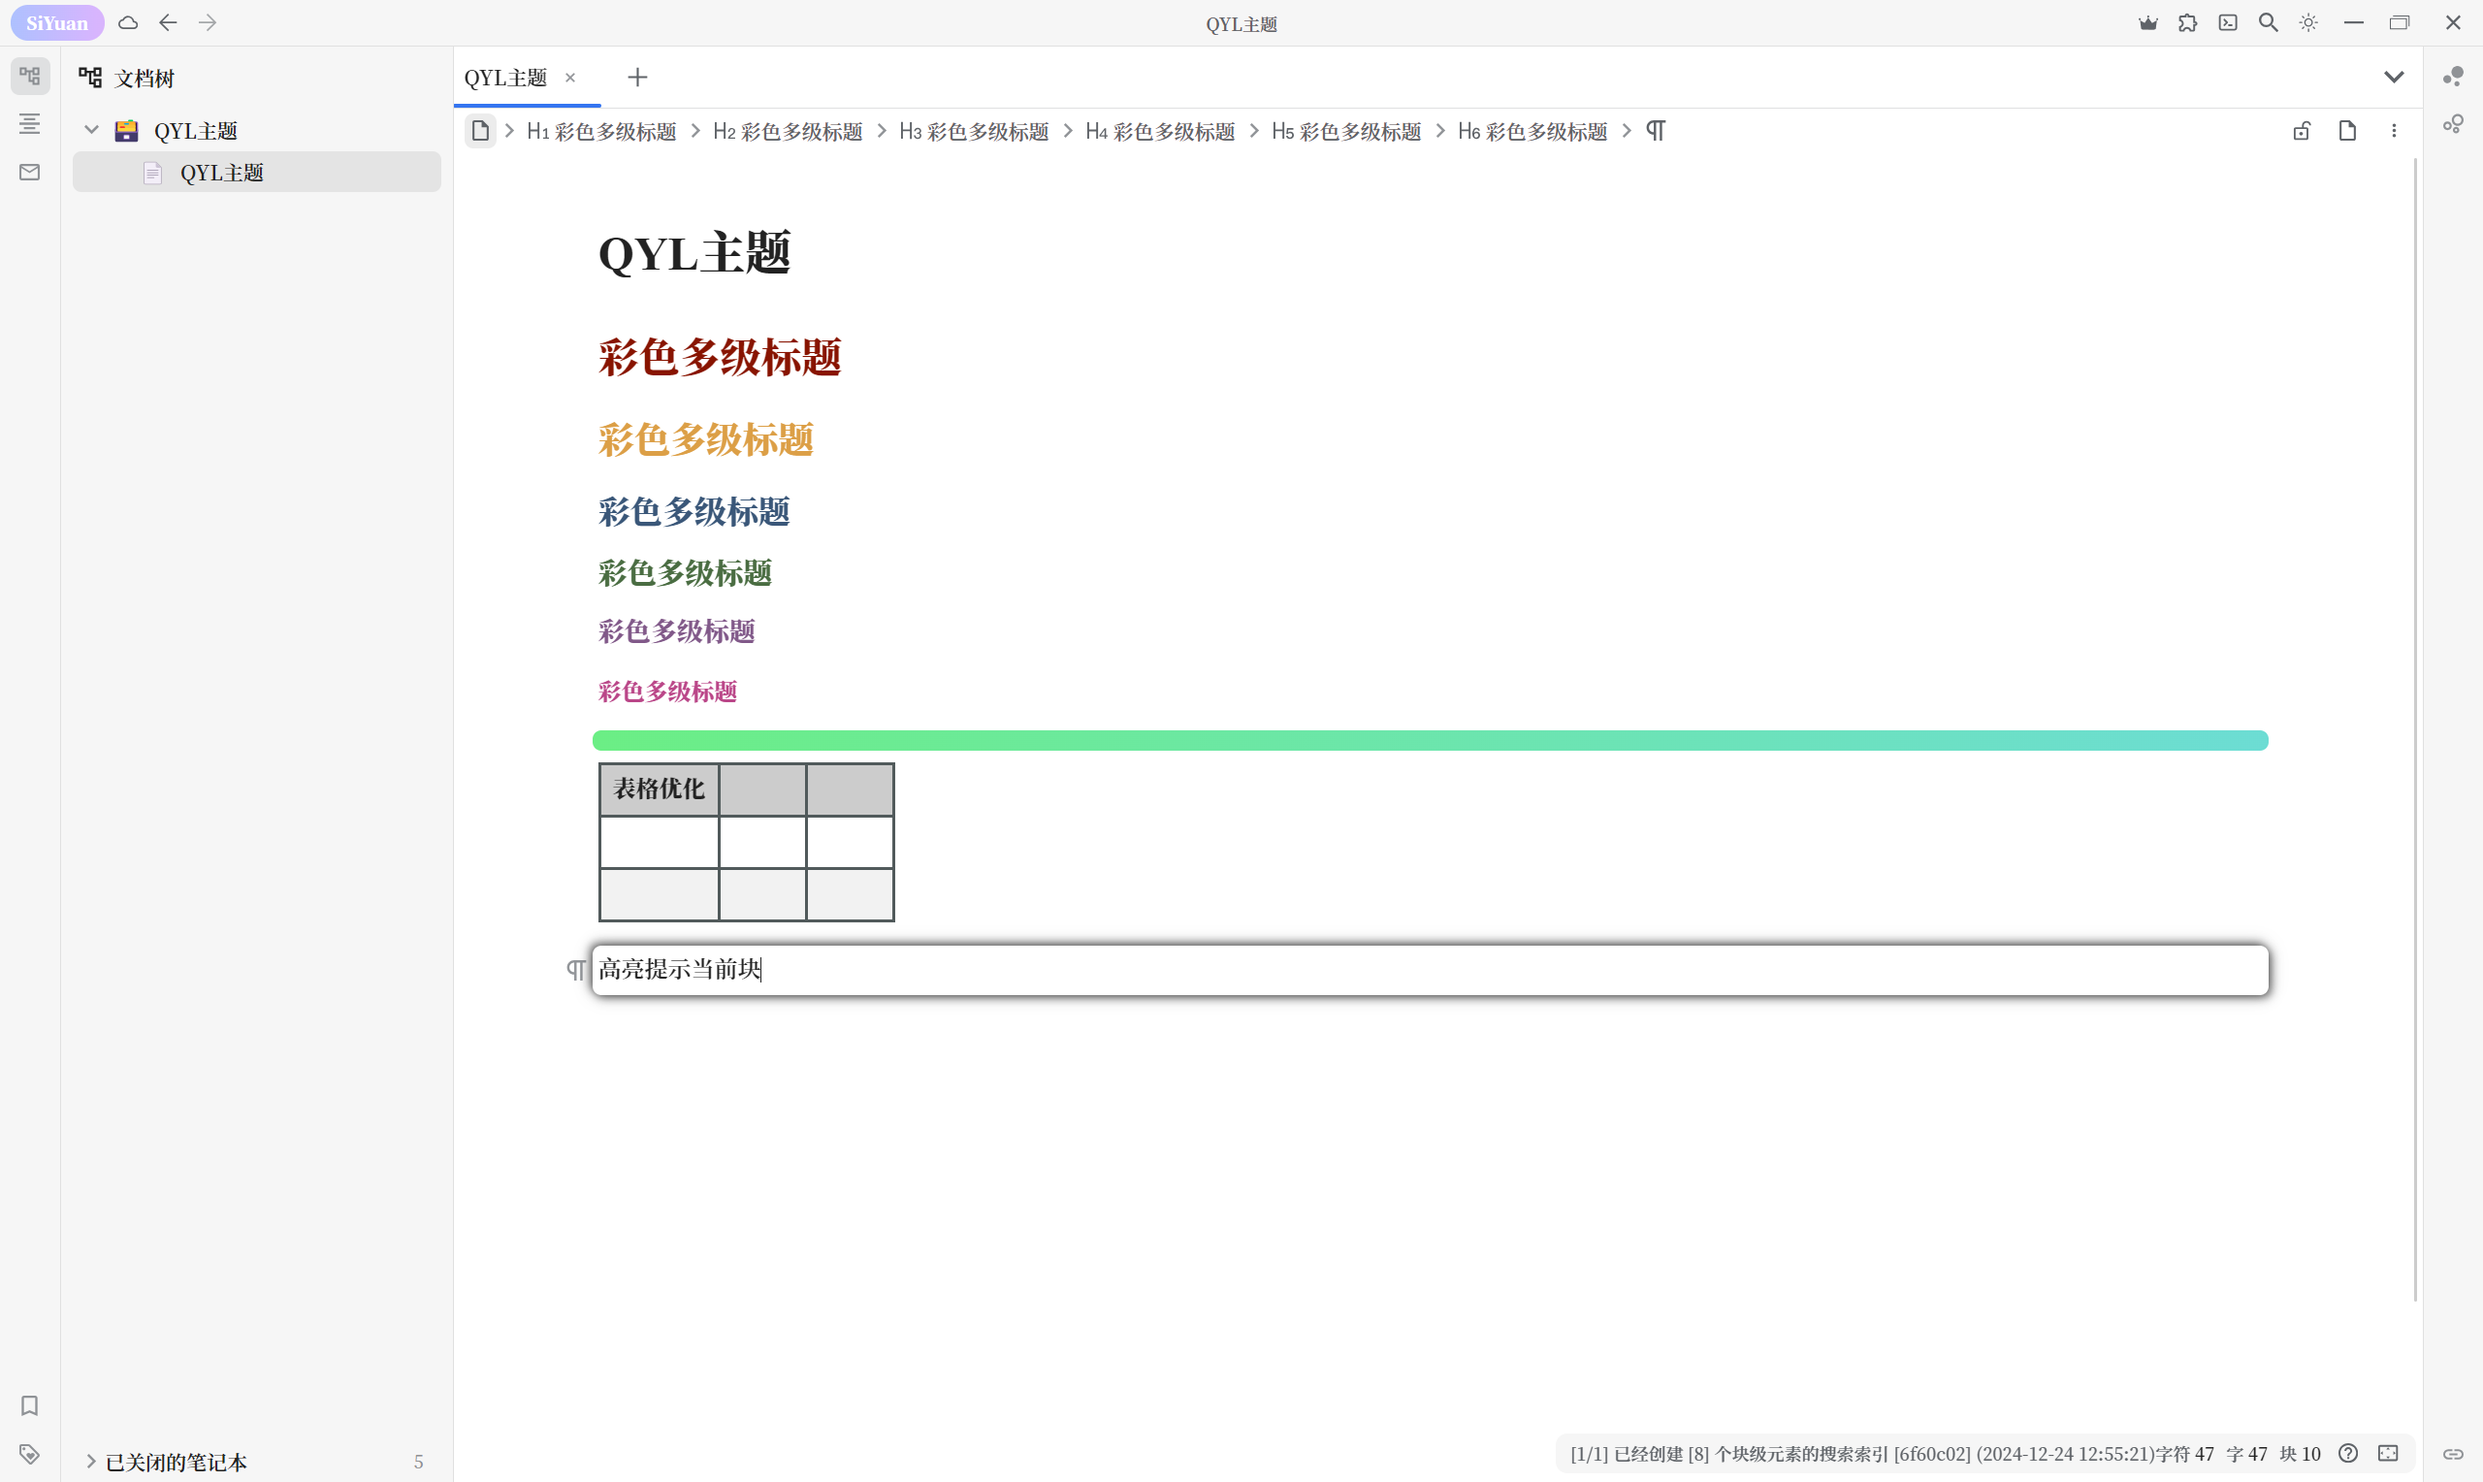
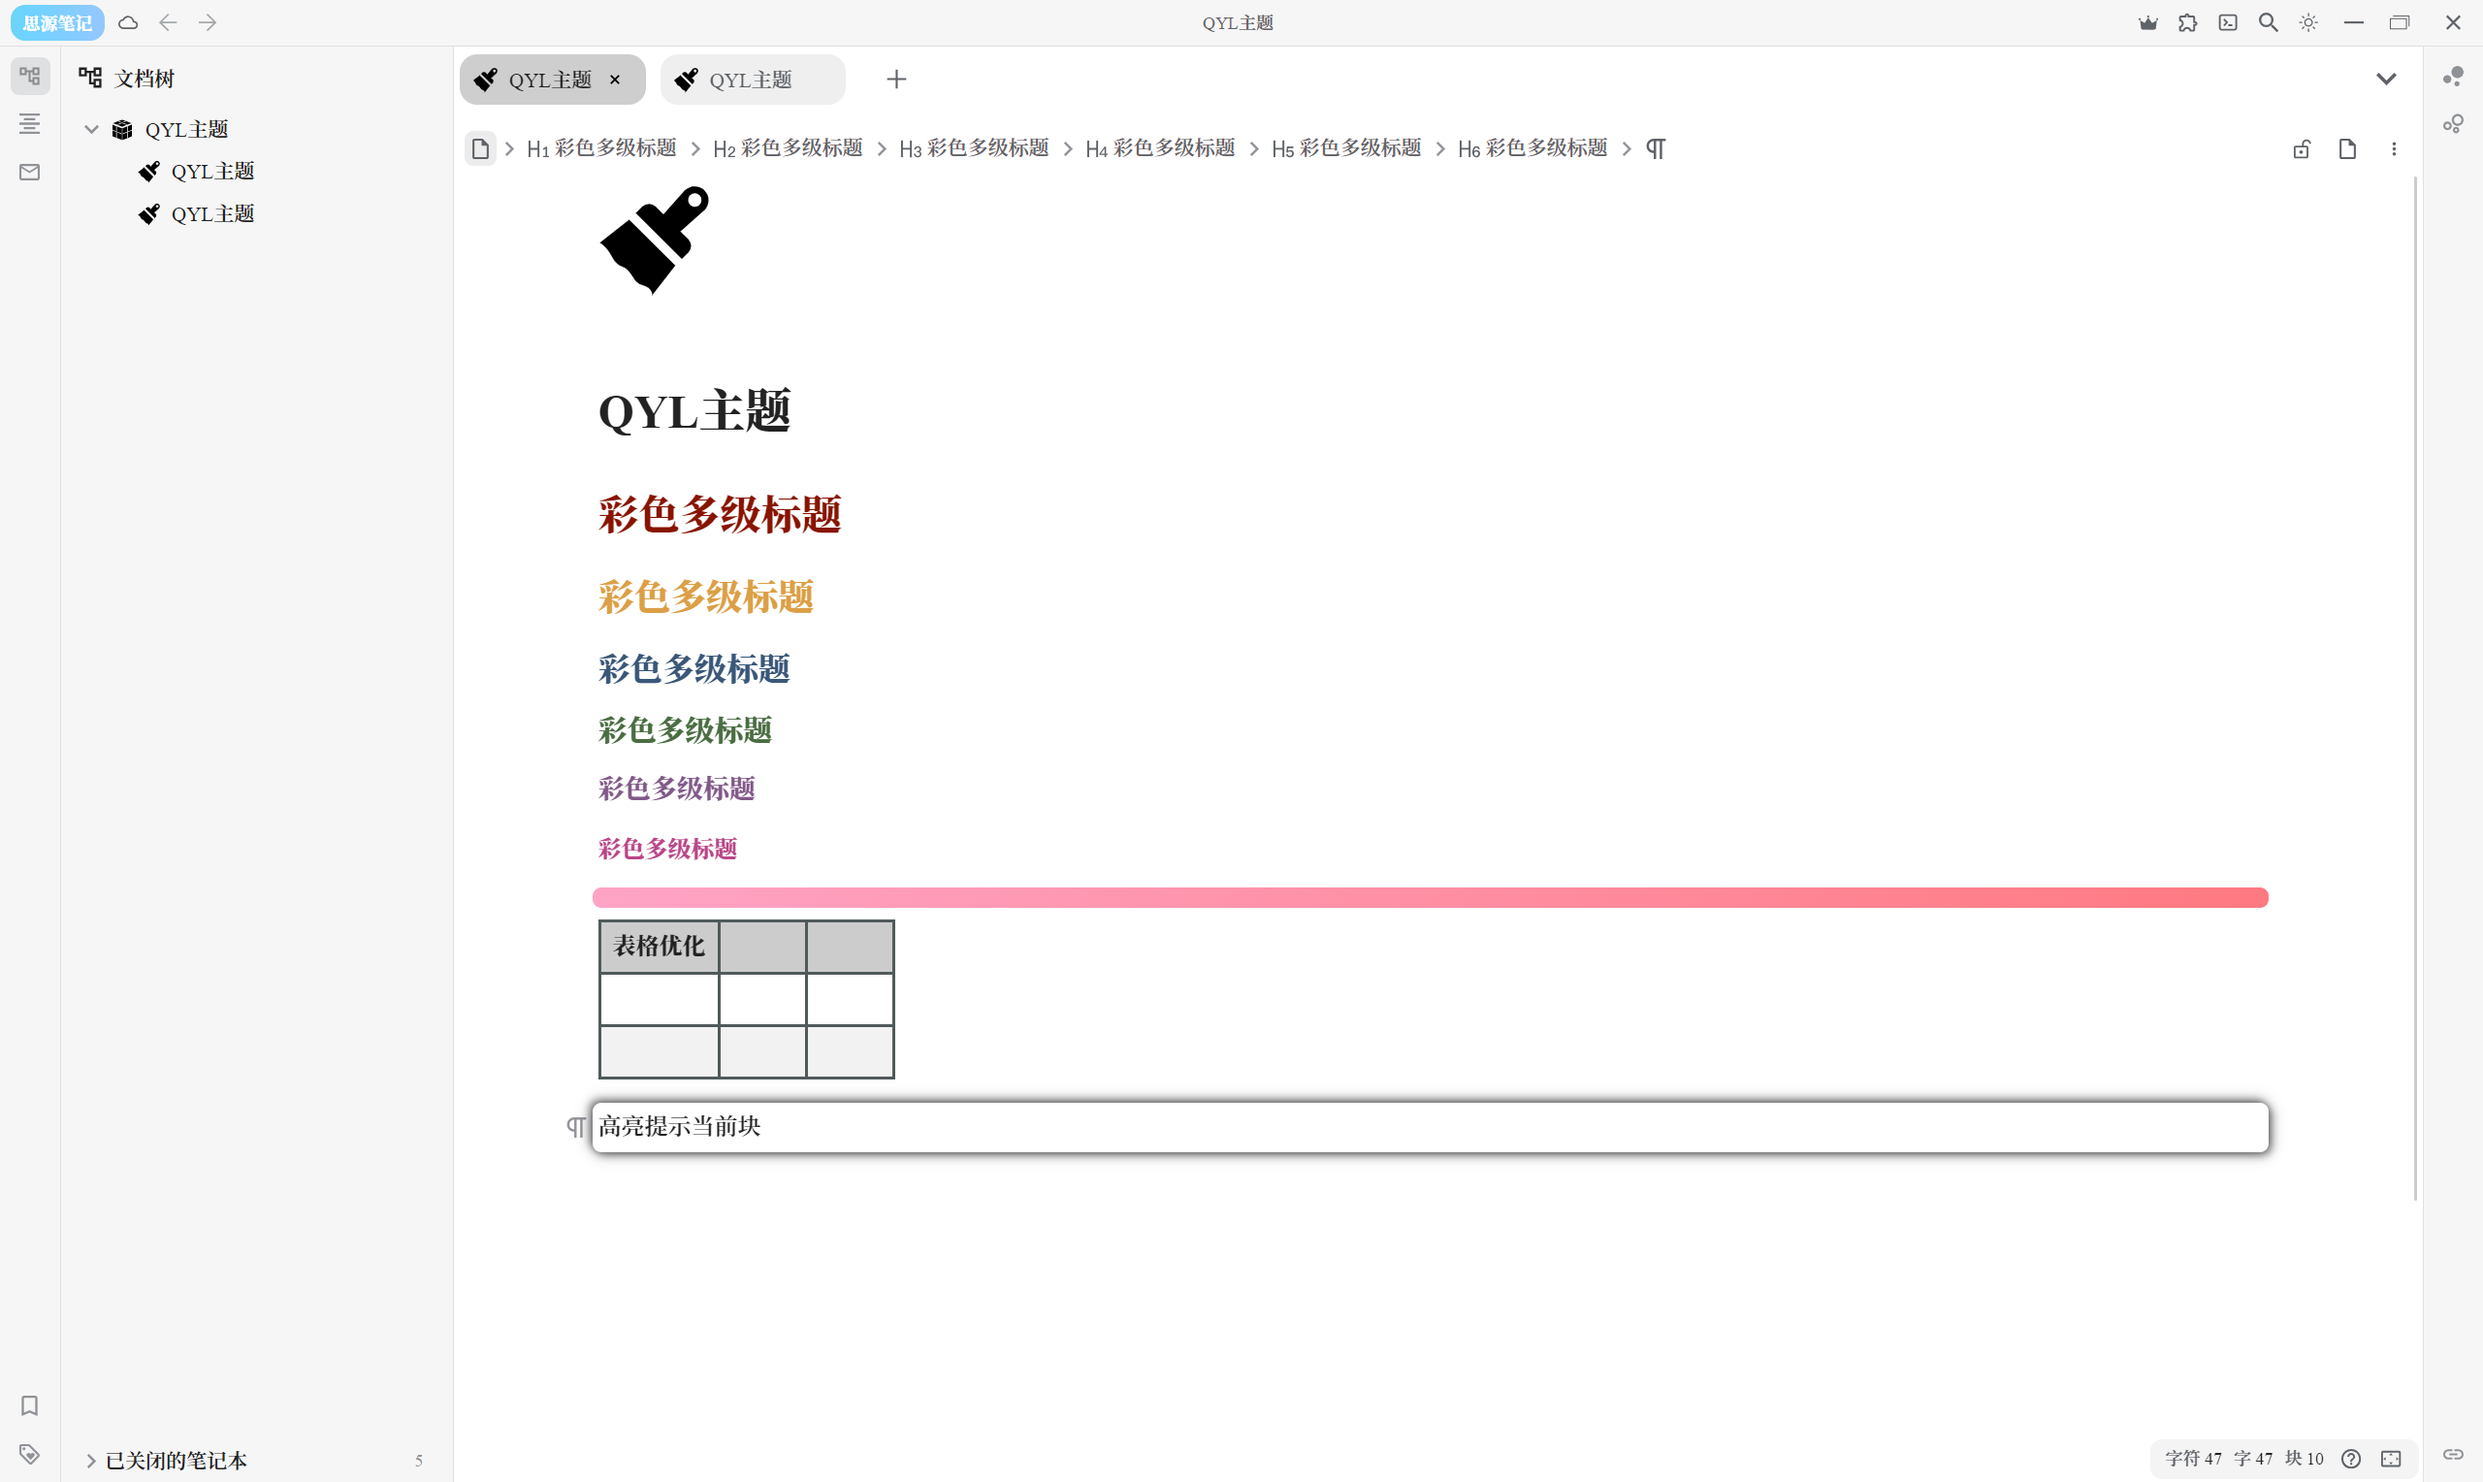
Add files via upload

diff --git a/theme.css b/theme.css
@@ -128,12 +128,12 @@
 .protyle-gutters { transition: all 0.2s ease-out; }
 
 /* 彩色多级标题 */
-.protyle-wysiwyg .h1 { color: var(--h1-); }
-.protyle-wysiwyg .h2 { color: var(--h2-); }
-.protyle-wysiwyg .h3 { color: var(--h3-); }
-.protyle-wysiwyg .h4 { color: var(--h4-); }
-.protyle-wysiwyg .h5 { color: var(--h5-); }
-.protyle-wysiwyg .h6 { color: var(--h6-); }
+.b3-typography .h1,.b3-typography h1,.protyle-wysiwyg .h1,.protyle-wysiwyg h1 { color: var(--h1-); }
+.b3-typography .h2,.b3-typography h2,.protyle-wysiwyg .h2,.protyle-wysiwyg h2 { color: var(--h2-); }
+.b3-typography .h3,.b3-typography h3,.protyle-wysiwyg .h3,.protyle-wysiwyg h3 { color: var(--h3-); }
+.b3-typography .h4,.b3-typography h4,.protyle-wysiwyg .h4,.protyle-wysiwyg h4 { color: var(--h4-); }
+.b3-typography .h5,.b3-typography h5,.protyle-wysiwyg .h5,.protyle-wysiwyg h5 { color: var(--h5-); }
+.b3-typography .h6,.b3-typography h6,.protyle-wysiwyg .h6,.protyle-wysiwyg h6 { color: var(--h6-); }
 
 /* 表格优化 */
 th, tr:nth-child(odd) td, tr:nth-child(even) td { border: 2px solid #515A5B !important; }
@@ -162,18 +162,33 @@ tr:nth-child(even) td { background-color: rgba(0, 0, 0, 0.05) !important; }
 /* 状态栏浮动到右侧 */
 #status {
     position: fixed;
-    right: 42px !important;
-    bottom: -8px;
+    right: 45px !important;
+    bottom: 3px;
     border-radius: 8px;
     height: 27px !important;
     padding: 0px 5px 0px !important;
-    margin: 0px 5px 15px;
     overflow: hidden;
     z-index: 3;
     border: none;
-    background-color: var(--b3-theme-surface);
+    background-color: rgba(233, 233, 233, 0.5);
     display: flex;
     align-items: center;
+    transition: 0.5s;
+}
+#status:hover {
+    position: fixed;
+    right: 45px !important;
+    bottom: 3px;
+    border-radius: 8px;
+    height: 27px !important;
+    padding: 0px 5px 0px !important;
+    overflow: hidden;
+    z-index: 3;
+    border: none;
+    background-color: rgba(211, 211, 211, 0.5);
+    display: flex;
+    align-items: center;
+    transition: 0.5s;
 }
 #barDock {
     position: relative;
@@ -181,4 +196,60 @@ tr:nth-child(even) td { background-color: rgba(0, 0, 0, 0.05) !important; }
 }
 #statusHelp {
     position: relative;
+}
+
+/* 行级代码 */
+.b3-typography code:not(.hljs),.b3-typography span[data-type~=code],.protyle-wysiwyg code:not(.hljs),.protyle-wysiwyg span[data-type~=code] {
+    color: red;
+}
+
+/* 页签栏 */
+.layout-tab-bar .item {
+    min-height: 25px;
+    height: 35px;
+    margin: 5px;
+}
+.layout-tab-bar .item:not(.layout-tab-bar .item--readonly):not(.item.item--focus) {
+    background-color: #efefef;
+    border-radius: 12px;
+    transition: 0.5s;
+}
+.layout-tab-bar .item:not(.layout-tab-bar .item--readonly):not(.item.item--focus):hover {
+    background-color: #cecece;
+    border-radius: 12px;
+    transition: 0.5s;
+}
+.item.item--focus {
+    background-color: #cecece;
+    border-radius: 12px;
+    transition: 0.5s;
+}
+.layout__wnd--active .layout-tab-bar .item:after, .layout-tab-bar .item--full.item--focus::after {
+    display:none;
+}
+.layout-tab-bar {
+    border-bottom: 10px solid rgba(0,0,0,0);
+}
+.layout-tab-bar .item__text {
+    padding-top: 2px;
+}
+.layout-tab-bar .item.item--focus .item__close svg {
+    background-color: rgba(241, 241, 241, 0);
+    color: black;
+    opacity: 1 !important;
+}
+.layout-tab-bar .item.item--focus .item__close svg:hover {
+    background-color: rgb(255, 53, 53);
+    color: rgb(255, 255, 255);
+    opacity: 1 !important;
+}
+.layout-tab-bar .item:hover .item__close svg {
+    background-color: rgba(241, 241, 241, 0);
+    color: black;
+    opacity: 1 !important;
+}
+.layout-tab-bar .item:hover .item__close svg:hover {
+    background-color: rgb(255, 53, 53);
+    color: rgb(255, 255, 255);
+    opacity: 1 !important;
 }

diff --git a/README_zh_CN.md b/README_zh_CN.md
@@ -1,15 +1,23 @@
-# 自用主题，基于原版的功能优化
+# 基于原版的优化主题，自用主题
+#### 前排提示：由于内置的思源宋体字库很全，字体包较大，所以软件启动时会卡0.5秒，只是在加载字体，不是bug，加载完成后就不会影响软件流畅度
 
-* 不改变原版配色，只修改部分样式
+* 不改变原版的基本配色，只修改部分样式和优化部分功能，最大程度确保兼容性
 * 全局字体改为思源宋体
 * 主菜单按钮彩虹渐变
 * 分割线彩虹渐变
 * 表格样式优化
 * 高亮提示编辑块、悬浮块、超级块
-* .......其他小修改
+* 斜杠`/`菜单横铺，参考了<https://ld246.com/article/1724305128590>
+* 底部状态栏浮动到右侧，部分内容参考了<https://ld246.com/article/1724305128590>
+* 页签栏样式优化，部分内容参考了<https://ld246.com/article/1724305128590>
 
-# v1.0.3
-* 修复主菜单按钮文字不居中的缺陷
+## v1.0.4
+* 页签栏样式优化
+* 行级代码改成红色
+* 修复彩色多级标题只在编辑器界面生效的问题
 
-# v1.0.2
+## v1.0.3
+* 修复主菜单按钮文字不居中的问题
+
+## v1.0.2
 * 修改西文字符字体为新罗马，中文字体仍为思源宋体
